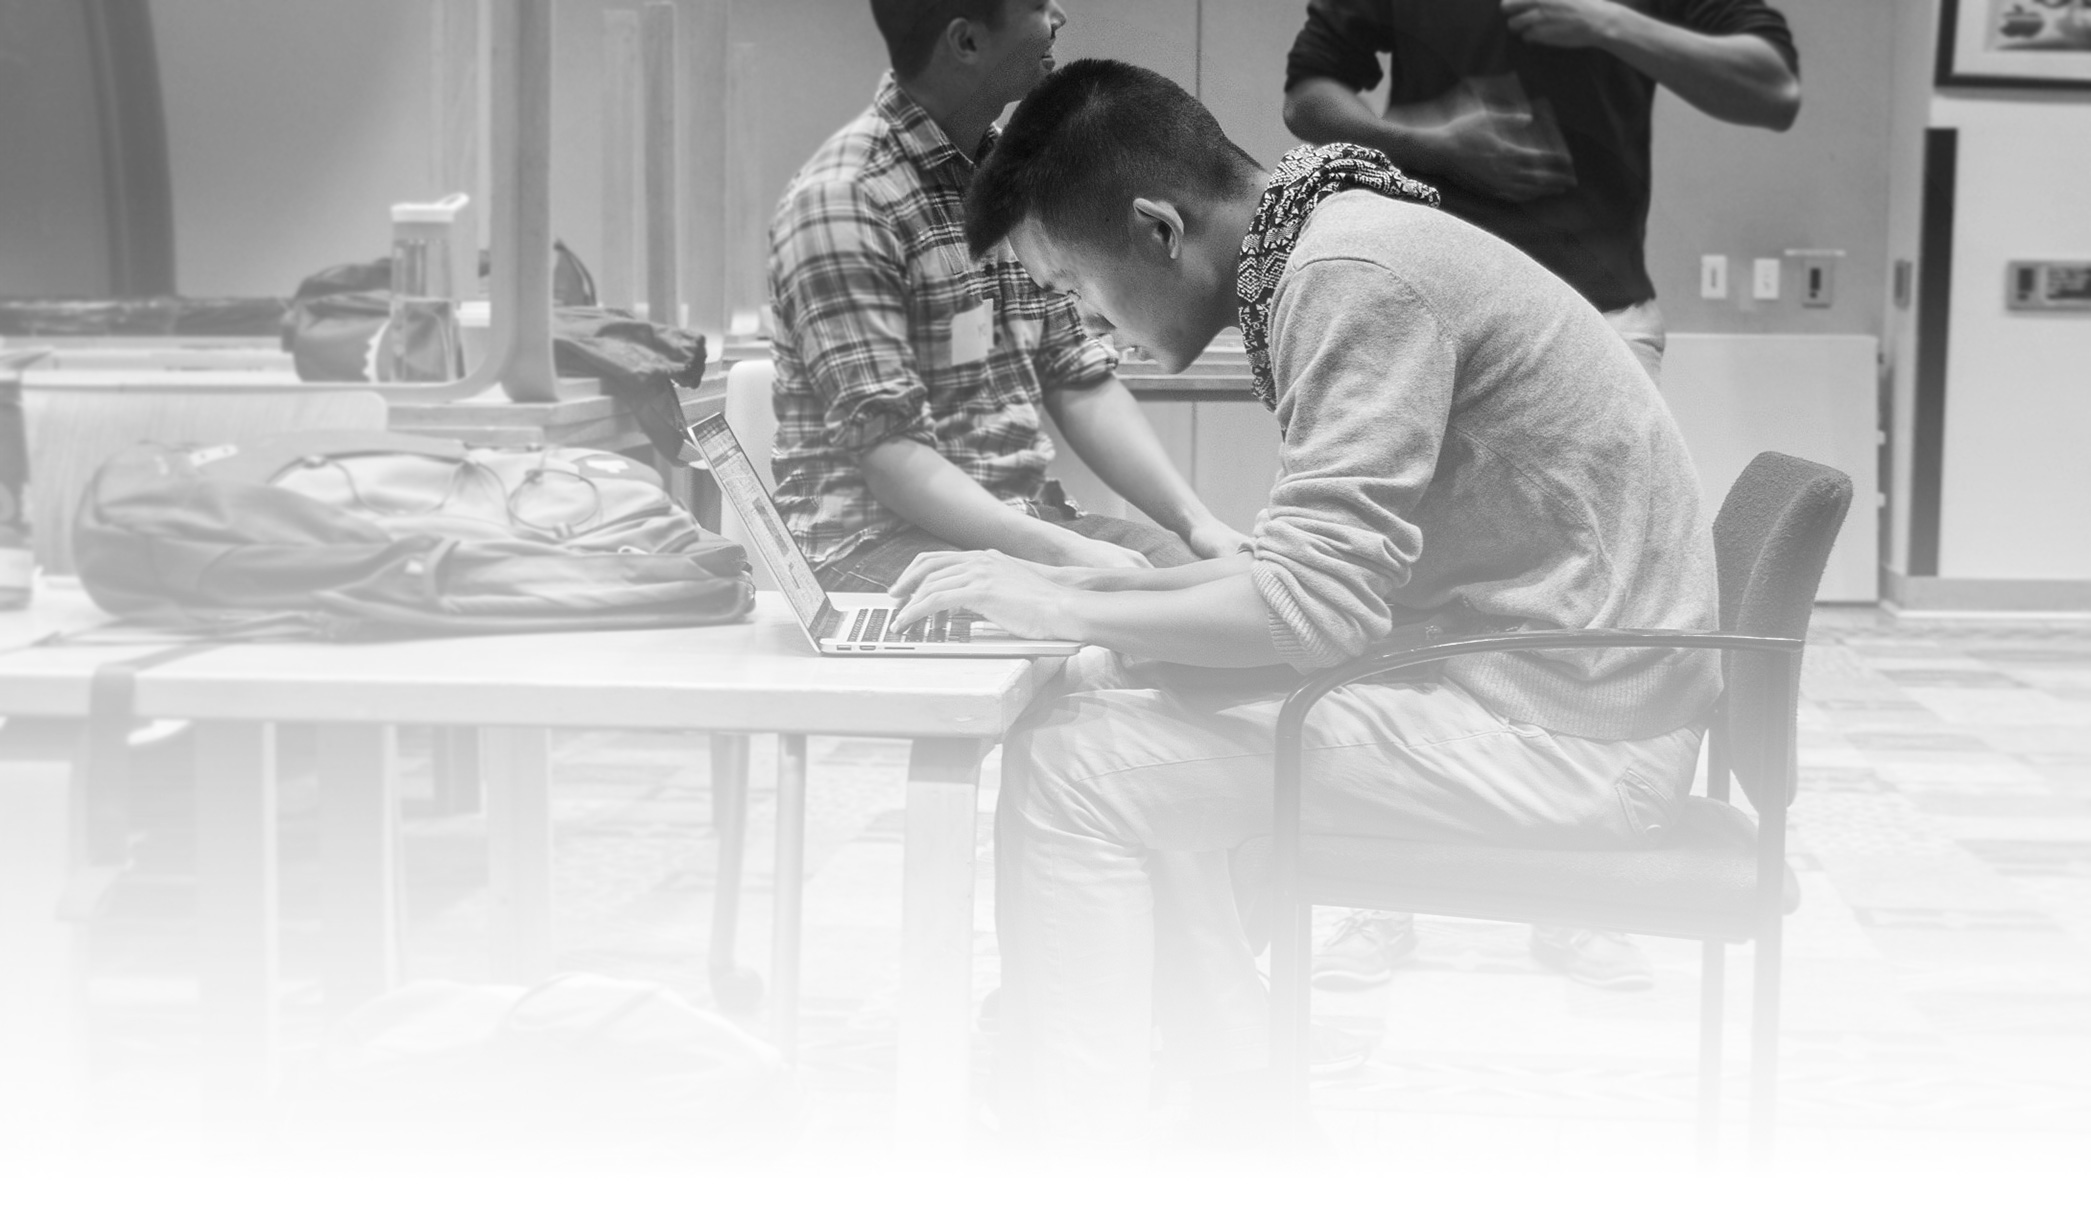
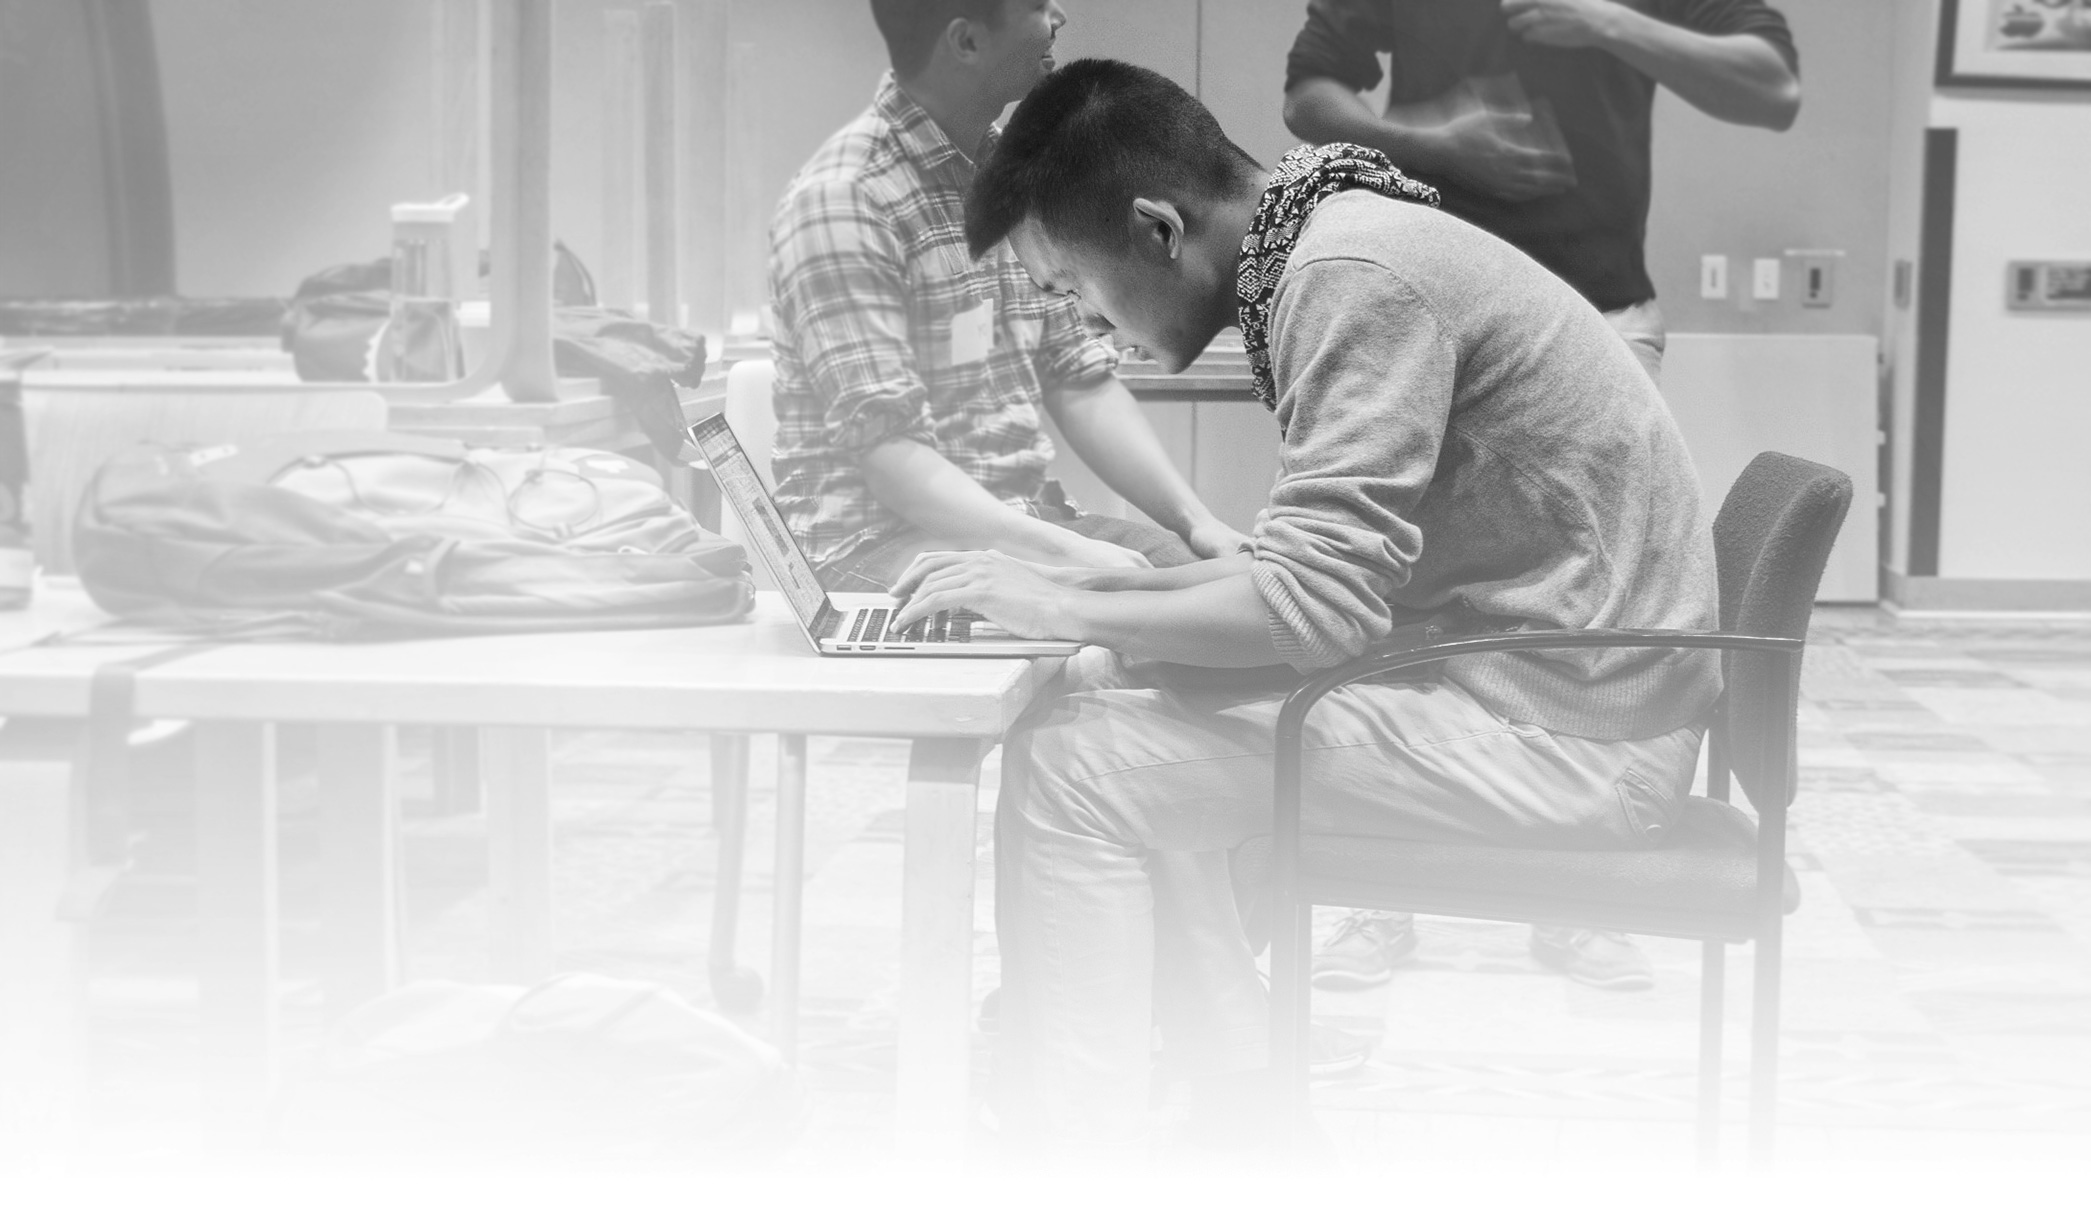
fix emdashes and tweak photo

diff --git a/unboard.html b/unboard.html
@@ -4,7 +4,7 @@
   <link href="style.css" rel="stylesheet" type="text/css">
   <script src="http://ajax.googleapis.com/ajax/libs/jquery/2.1.1/jquery.min.js"></script>
   <meta name="viewport" content="width=device-width, initial-scale=1, user-scalable=no"/>
-  <title>Kevin Wu — Unboard</title>
+  <title>Kevin & Unboard</title>
 </head>
 <body>
   <div class="spacer-6"></div>
@@ -23,7 +23,7 @@
     <div class="spacer-2 small"></div>
   </div>
   <div class="text">
-    <p>It all started with a cold email. Though when I had originally sent that email I had known it was a long shot, somehow I negotiated a partnership with the board game publisher <a href="https://www.amazon.com/Indie-Boards-Cards/b/ref=bl_dp_s_web_5535831011?ie=UTF8&node=5535831011&field-lbr_brands_browse-bin=Indie+Boards+%26+Cards" target="_blank">Indie Boards & Cards</a> to build the official mobile adaptation of one of their most popular games — <a onclick="$('html, body').animate({scrollTop: $('#resistance').offset().top - 50}, 500, 'swing');">The Resistance</a>.</p>
+    <p>It all started with a cold email. Though when I had originally sent that email I had known it was a long shot, somehow I negotiated a partnership with the board game publisher <a href="https://www.amazon.com/Indie-Boards-Cards/b/ref=bl_dp_s_web_5535831011?ie=UTF8&node=5535831011&field-lbr_brands_browse-bin=Indie+Boards+%26+Cards" target="_blank">Indie Boards & Cards</a> to build the official mobile adaptation of one of their most popular games&mdash;<a onclick="$('html, body').animate({scrollTop: $('#resistance').offset().top - 50}, 500, 'swing');">The Resistance</a>.</p>
     <div class="spacer-1"></div>
     <p>The publisher expected a proper business to form a partnership with, so I rushed to establish a brand, recruit my friends, and register a corporation, founding Unboard. While operating the studio, we also were inspired to create our own original game, leading to our second title, <a onclick="$('html, body').animate({scrollTop: $('#epic-everything').offset().top - 50}, 500, 'swing');">Epic Everything</a>.</p>
   </div>

diff --git a/yelp.html b/yelp.html
@@ -4,7 +4,7 @@
   <link href="style.css" rel="stylesheet" type="text/css">
   <script src="http://ajax.googleapis.com/ajax/libs/jquery/2.1.1/jquery.min.js"></script>
   <meta name="viewport" content="width=device-width, initial-scale=1, user-scalable=no"/>
-  <title>Kevin Wu — Yelp</title>
+  <title>Kevin & Yelp</title>
 </head>
 <body>
   <div class="spacer-6"></div>
@@ -64,7 +64,7 @@
   <div class="spacer-2"></div>
   <div class="note"></div>
   <div class="text">
-    <p>I also found the time to help my team come up with a mascot — the industrious bee. It&rsquo;s both a pun on our team&rsquo;s abbreviated name (CTB) and a symbol of the power of contributing. Along the way, I even illustrated a sticker set for not only our mascot, but also other teams&rsquo; mascots.</p>
+    <p>I also found the time to help my team come up with a mascot&mdash;the industrious bee. It&rsquo;s both a pun on our team&rsquo;s abbreviated name (CTB) and a symbol of the power of contributing. Along the way, I even illustrated a sticker set for not only our mascot, but also other teams&rsquo; mascots.</p>
     <div class="spacer-1"></div>
     <p>Overall, I loved my summer at Yelp. I got a chance to help my team on the fun side of things as well as the business side. After being immersed for eleven weeks in a company with established product theses, I feel better equipped to handle any product decision in the future with data in mind.</p>
     <div class="spacer-2 small"></div>

diff --git a/home.html b/home.html
@@ -9,7 +9,7 @@
   <meta property="og:image" content="http://www.kevinandstuff.com/screen.png"/>
   <script src="http://ajax.googleapis.com/ajax/libs/jquery/2.1.1/jquery.min.js"></script>
   <meta name="viewport" content="width=device-width, initial-scale=1, user-scalable=no"/>
-  <title>Kevin Wu — stuff</title>
+  <title>Kevin & Stuff</title>
 </head>
 <body>
   <img class="hero" src="hero.jpg">

diff --git a/style.css b/style.css
@@ -81,8 +81,8 @@ body {
   z-index: -2;
   top: 0;
   left: 0;
-  max-width: 100%;
-  opacity: 0.3;
+  width: 100%;
+  opacity: 0.4;
 }
 
 h1 {
